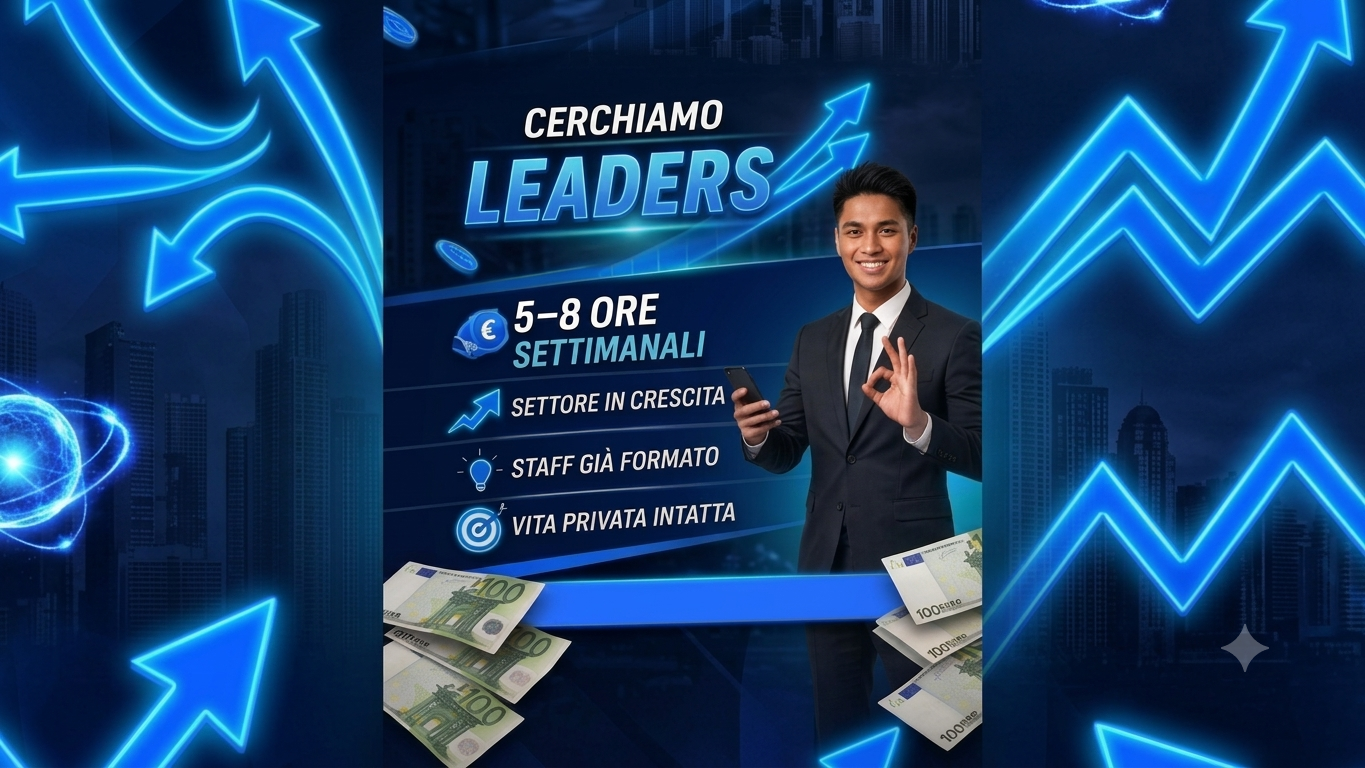
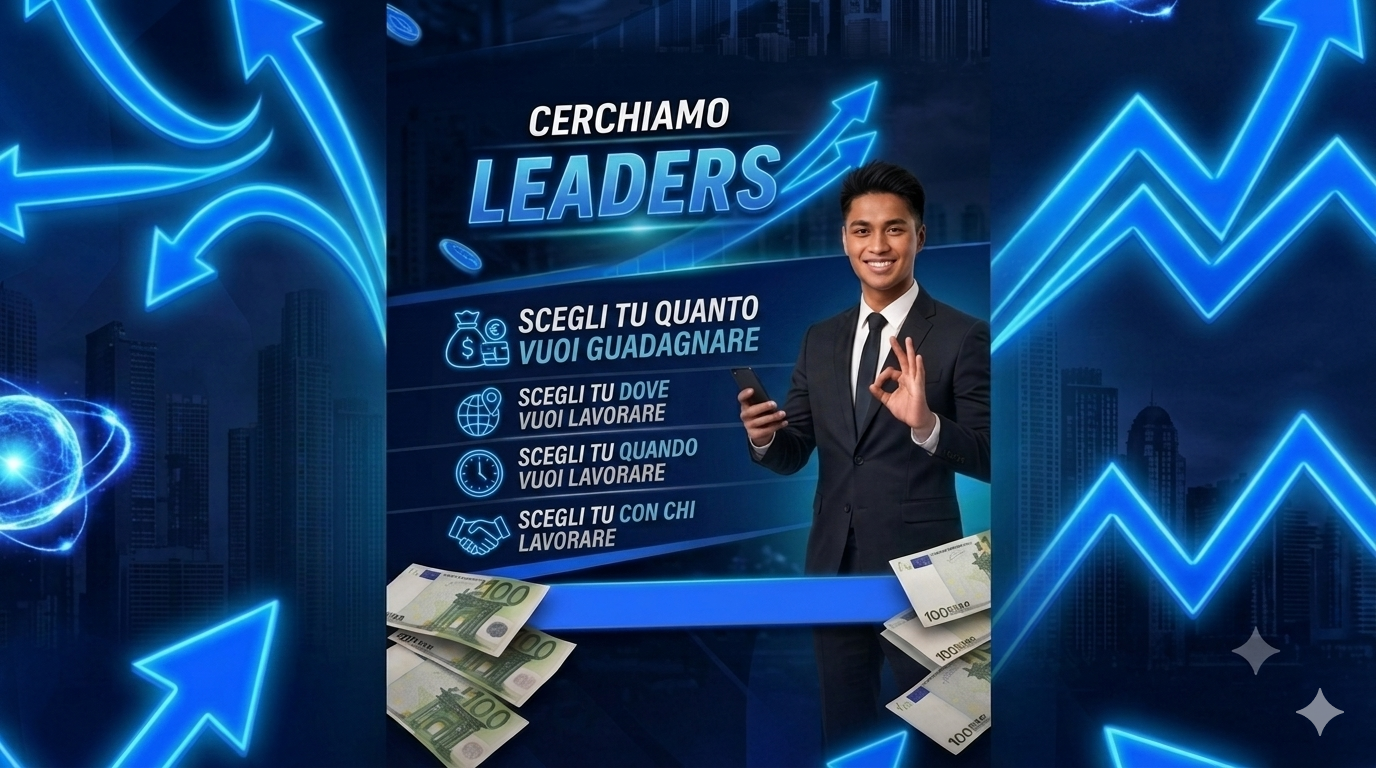
ini

diff --git a/index.html b/index.html
@@ -133,21 +133,21 @@
   <section id="servizi" class="bg-deep">
     <div class="container-xl section-inner">
 
-      <div class="row justify-content-center text-center mb-5 reveal">
-        <div class="col-lg-7">
-          <span class="section-label">La tua grande opportunità</span>
-          <h2 class="section-title">Tutto ciò di cui hai bisogno<br/><span style="color:var(--glow)">per iniziare.</span></h2>
-          <p class="text-muted-custom">
-            Ogni giorno milioni di persone pagano bollette di luce, gas, internet. <strong>IBO Community</strong> ti permette di guadagnare un reddito residuale ogni volta che un tuo cliente paga uno di questi servizi essenziali.
-          </p>
-          <p class="text-muted-custom">
-            Diventando un <strong>Imprenditore Indipendente IBO</strong>, ricevi un ufficio virtuale, assistenza completa e strumenti di marketing pronti all'uso. Ogni nuovo cliente che acquisisci ti dà un aumento mensile automatico — mese dopo mese, per tutta la durata del contratto.
-          </p>
-          <p class="text-muted-custom">
-            Non ci sono limiti al numero di persone che puoi introdurre. Più persone entrano nella tua rete, più cresce il tuo reddito residuale. Un'opportunità unica nel suo genere, con il supporto completo della nostra azienda ad ogni passo.
-          </p>
-        </div>
-      </div>
+    <div class="row justify-content-center text-center mb-5 reveal">
+  <div class="col-lg-7">
+    <span class="section-label">La tua grande opportunità</span>
+    <h2 class="section-title">Tutto ciò di cui hai bisogno<br/><span style="color:var(--glow)">per iniziare.</span></h2>
+    <p class="text-muted-custom">
+      Ogni giorno milioni di persone pagano bollette di luce, gas, internet. <strong>IBO Community</strong> ti permette di guadagnare un reddito residuale ogni volta che un tuo cliente paga uno di questi servizi essenziali.
+    </p>
+    <p class="text-muted-custom">
+      Diventando un <strong>Imprenditore Indipendente IBO</strong>, ricevi un ufficio virtuale, assistenza completa e strumenti della nostra attività imprenditoriale pronti all'uso. Ogni nuovo cliente che acquisisci ti dà un aumento mensile automatico — mese dopo mese, per tutta la durata del contratto.
+    </p>
+    <p class="text-muted-custom">
+      Non ci sono limiti al numero di persone che puoi introdurre. Più persone entrano nella tua squadra, più cresce il tuo reddito residuale. Un'opportunità <strong>UNICA</strong> nel suo genere, con il supporto completo della nostra azienda ad ogni passo — prova a immaginare come sarebbe diversa la tua vita con un reddito residuale e ora con <strong>IBO Community</strong> puoi trasformarla in realtà!
+    </p>
+  </div>
+</div>
 
       <!-- Fila 1: 3 cerchi -->
       <div class="row justify-content-center g-4 mb-4 reveal">
@@ -249,68 +249,65 @@
 
       <div class="row row-cols-1 row-cols-md-3 row-cols-lg-5 g-4 reveal">
 
-        <div class="col">
-          <div class="testi-card-v2">
-            <img src="foto_kris.jpg" alt="Kris" class="testi-photo-v2" />
-            <div class="testi-body">
-              <h5 class="testi-name">Kris</h5>
-              <span class="testi-city">Roma</span>
-              <i class="fa-solid fa-quote-left testi-quote"></i>
-              <p>"Ho scelto IBO Community perché volevo un'attività strutturata, senza reinventare la ruota."</p>
-            </div>
-          </div>
-        </div>
-
-        <div class="col">
-          <div class="testi-card-v2">
-            <img src="foto_joanna.jpg" alt="Joann" class="testi-photo-v2" />
-            <div class="testi-body">
-              <h5 class="testi-name">Joann</h5>
-              <span class="testi-city">Roma</span>
-              <i class="fa-solid fa-quote-left testi-quote"></i>
-              <p>"Sono entrata in una grande famiglia, l'azienda mi supporta in tutto."</p>
-            </div>
-          </div>
-        </div>
-
-        <div class="col">
-          <div class="testi-card-v2">
-            <img src="foto_Cherry.jpg" alt="Cherry" class="testi-photo-v2" />
-            <div class="testi-body">
-              <h5 class="testi-name">Cherry</h5>
-              <span class="testi-city">Roma</span>
-              <i class="fa-solid fa-quote-left testi-quote"></i>
-              <p>"IBO Community mi ha dato la possibilità di lavorare da casa e guadagnare davvero."</p>
-            </div>
-          </div>
-        </div>
-
-        <div class="col">
-          <div class="testi-card-v2">
-            <img src="foto_Josie.jpg" alt="Josie" class="testi-photo-v2" />
-            <div class="testi-body">
-              <h5 class="testi-name">Josie</h5>
-              <span class="testi-city">Roma</span>
-              <i class="fa-solid fa-quote-left testi-quote"></i>
-              <p>"Non credevo fosse possibile, ma oggi ho un reddito extra ogni mese grazie a IBO."</p>
-            </div>
-          </div>
-        </div>
-
-        <div class="col">
-          <div class="testi-card-v2">
-            <img src="foto_esthela.jpg" alt="Esthela" class="testi-photo-v2" />
-            <div class="testi-body">
-              <h5 class="testi-name">Esthela</h5>
-              <span class="testi-city">Roma</span>
-              <i class="fa-solid fa-quote-left testi-quote"></i>
-              <p>"Sono entrata in una grande famiglia, l'azienda mi supporta in tutto."</p>
-            </div>
-          </div>
-        </div>
-
-      </div>
+     <div class="col">
+  <div class="testi-card-v2">
+    <img src="foto_kris.jpg" alt="Kris" class="testi-photo-v2" />
+    <div class="testi-body">
+      <h5 class="testi-name">Kris</h5>
+      <span class="testi-city">Roma</span>
+      <i class="fa-solid fa-quote-left testi-quote"></i>
+      <p>"Due cari amici mi hanno condiviso questa fantastica opportunità IBO Community. Lavoravo al supermercato per quasi 50 ore a settimana. Ero stanco del mio lavoro e non avevo tempo libero per me. Ho scelto questa opportunità per aiutare la mia famiglia e di avere la libertà finanziaria!"</p>
     </div>
+  </div>
+</div>
+
+        <div class="col">
+  <div class="testi-card-v2">
+    <img src="foto_joanna.jpg" alt="Joann" class="testi-photo-v2" />
+    <div class="testi-body">
+      <h5 class="testi-name">Joann</h5>
+      <span class="testi-city">Roma</span>
+      <i class="fa-solid fa-quote-left testi-quote"></i>
+      <p>"Mio figlio mi ha contattato di questa incredibile opportunità. Ho subito detto di sì per aiutarlo e supportarlo. Ho lavorato come domestica Colf per circa 45 anni. Ho 64 anni e sono stanca di essere stanca. Voglio fare carriera in questa attività, io amo e voglio viaggiare tutto il mondo."</p>
+    </div>
+  </div>
+</div>
+
+      <div class="col">
+  <div class="testi-card-v2">
+    <img src="foto_Cherry.jpg" alt="Cherry" class="testi-photo-v2" />
+    <div class="testi-body">
+      <h5 class="testi-name">Cherry</h5>
+      <span class="testi-city">Roma</span>
+      <i class="fa-solid fa-quote-left testi-quote"></i>
+      <p>"Avevo paura di iniziare qualcosa di nuovo, ma IBO Community mi ha dato tutta la formazione e il supporto di cui avevo bisogno. Oggi lavoro da casa, gestisco i miei orari e finalmente ho tempo per la mia famiglia."</p>
+    </div>
+  </div>
+</div>
+
+<div class="col">
+  <div class="testi-card-v2">
+    <img src="foto_Josie.jpg" alt="Josie" class="testi-photo-v2" />
+    <div class="testi-body">
+      <h5 class="testi-name">Josie</h5>
+      <span class="testi-city">Roma</span>
+      <i class="fa-solid fa-quote-left testi-quote"></i>
+      <p>"Ho sempre sognato di avere una mia attività ma non sapevo da dove cominciare. Con IBO Community ho trovato un sistema già pronto, un team fantastico e risultati concreti fin dai primi mesi. Non tornerei mai indietro!"</p>
+    </div>
+  </div>
+</div>
+
+<div class="col">
+  <div class="testi-card-v2">
+    <img src="foto_esthela.jpg" alt="Esthela" class="testi-photo-v2" />
+    <div class="testi-body">
+      <h5 class="testi-name">Esthela</h5>
+      <span class="testi-city">Roma</span>
+      <i class="fa-solid fa-quote-left testi-quote"></i>
+      <p>"Lavoravo tutto il giorno e lo stipendio non bastava mai. Un'amica mi ha parlato di IBO Community e ho deciso di provare. Oggi ho un reddito extra che cresce ogni mese e una community che mi sostiene ogni giorno."</p>
+    </div>
+  </div>
+</div>
   </section>
 
   <div class="divider"></div>
@@ -399,10 +396,11 @@
  <footer class="site-footer">
   <div class="container-xl">
 
-    <div class="text-center mb-3">
-      <span class="footer-brand-name">IBO Community</span>
-      <img src="ibo_logo.jpg" alt="IBO Logo" style="height:80px; width:auto; display:block; margin:0.8rem auto 0;" />
-    </div>
+<div class="text-center mb-3">
+  <span class="footer-brand-name">IBO</span>
+  <span class="footer-brand-name" style="display:block; font-size: 1.2rem;">Imprenditori Indipendenti Liberi</span>
+  <img src="ibo_logo.jpg" alt="IBO Logo" style="height:80px; width:auto; display:block; margin:0.8rem auto 0;" />
+</div>
 
     <div class="d-flex justify-content-center gap-3 mb-4">
       <a href="#" class="footer-social" aria-label="Facebook">